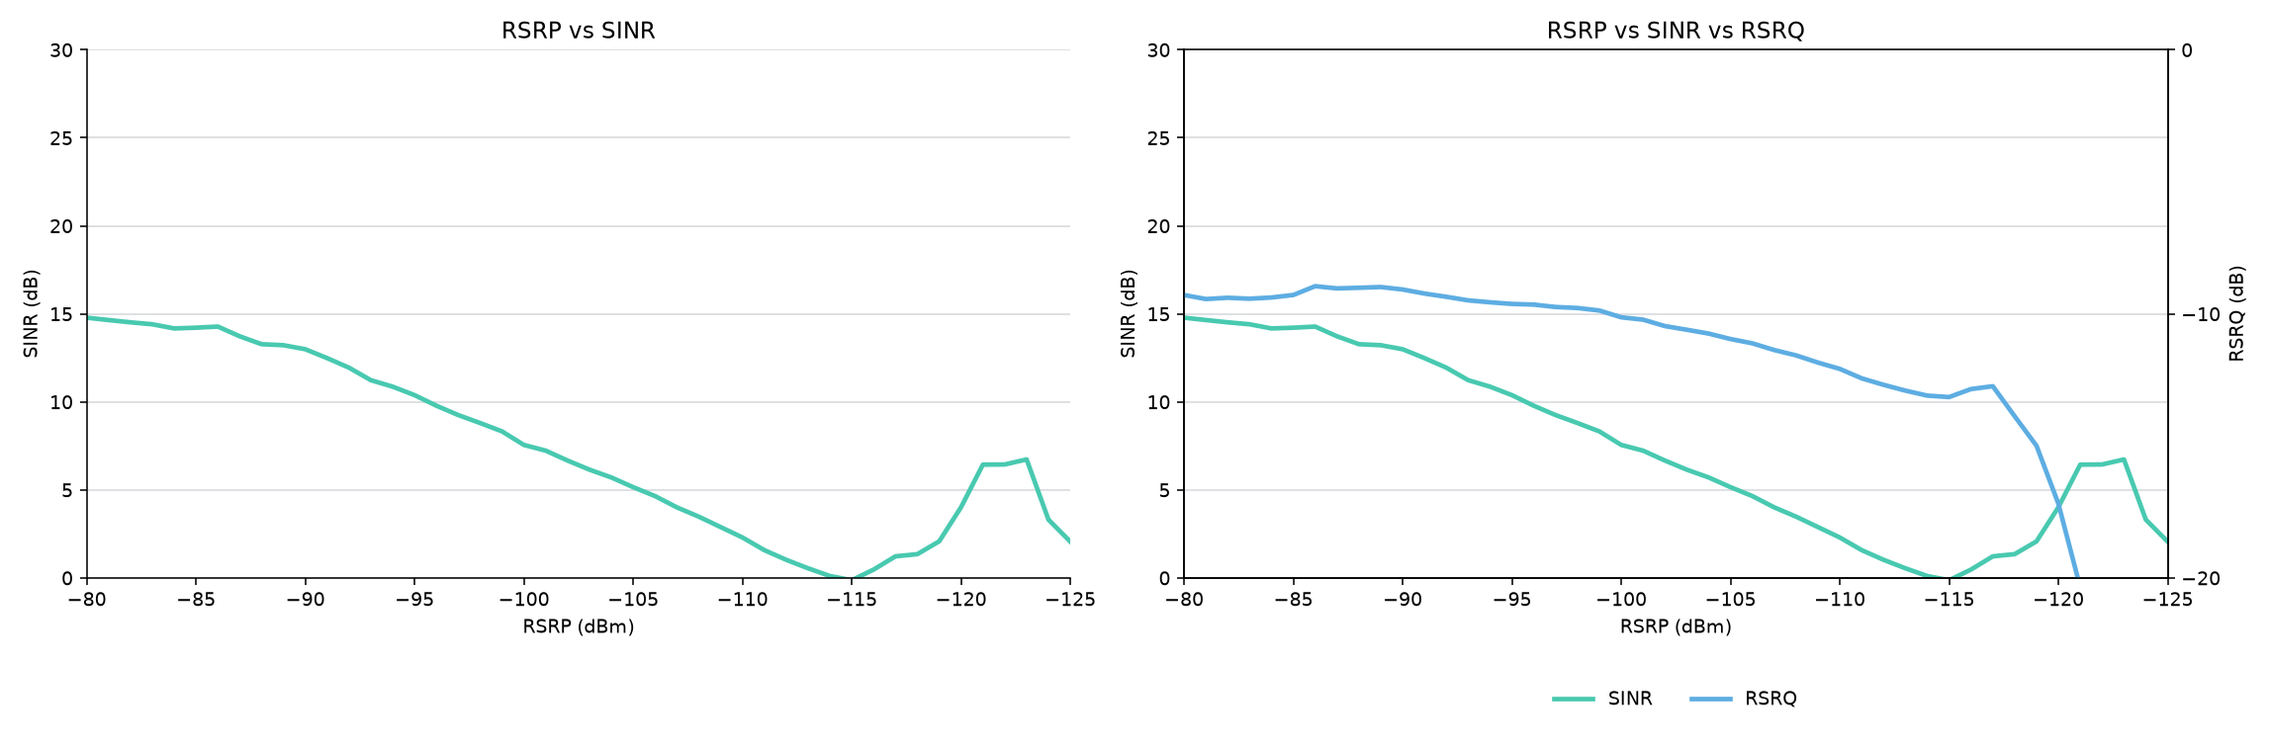
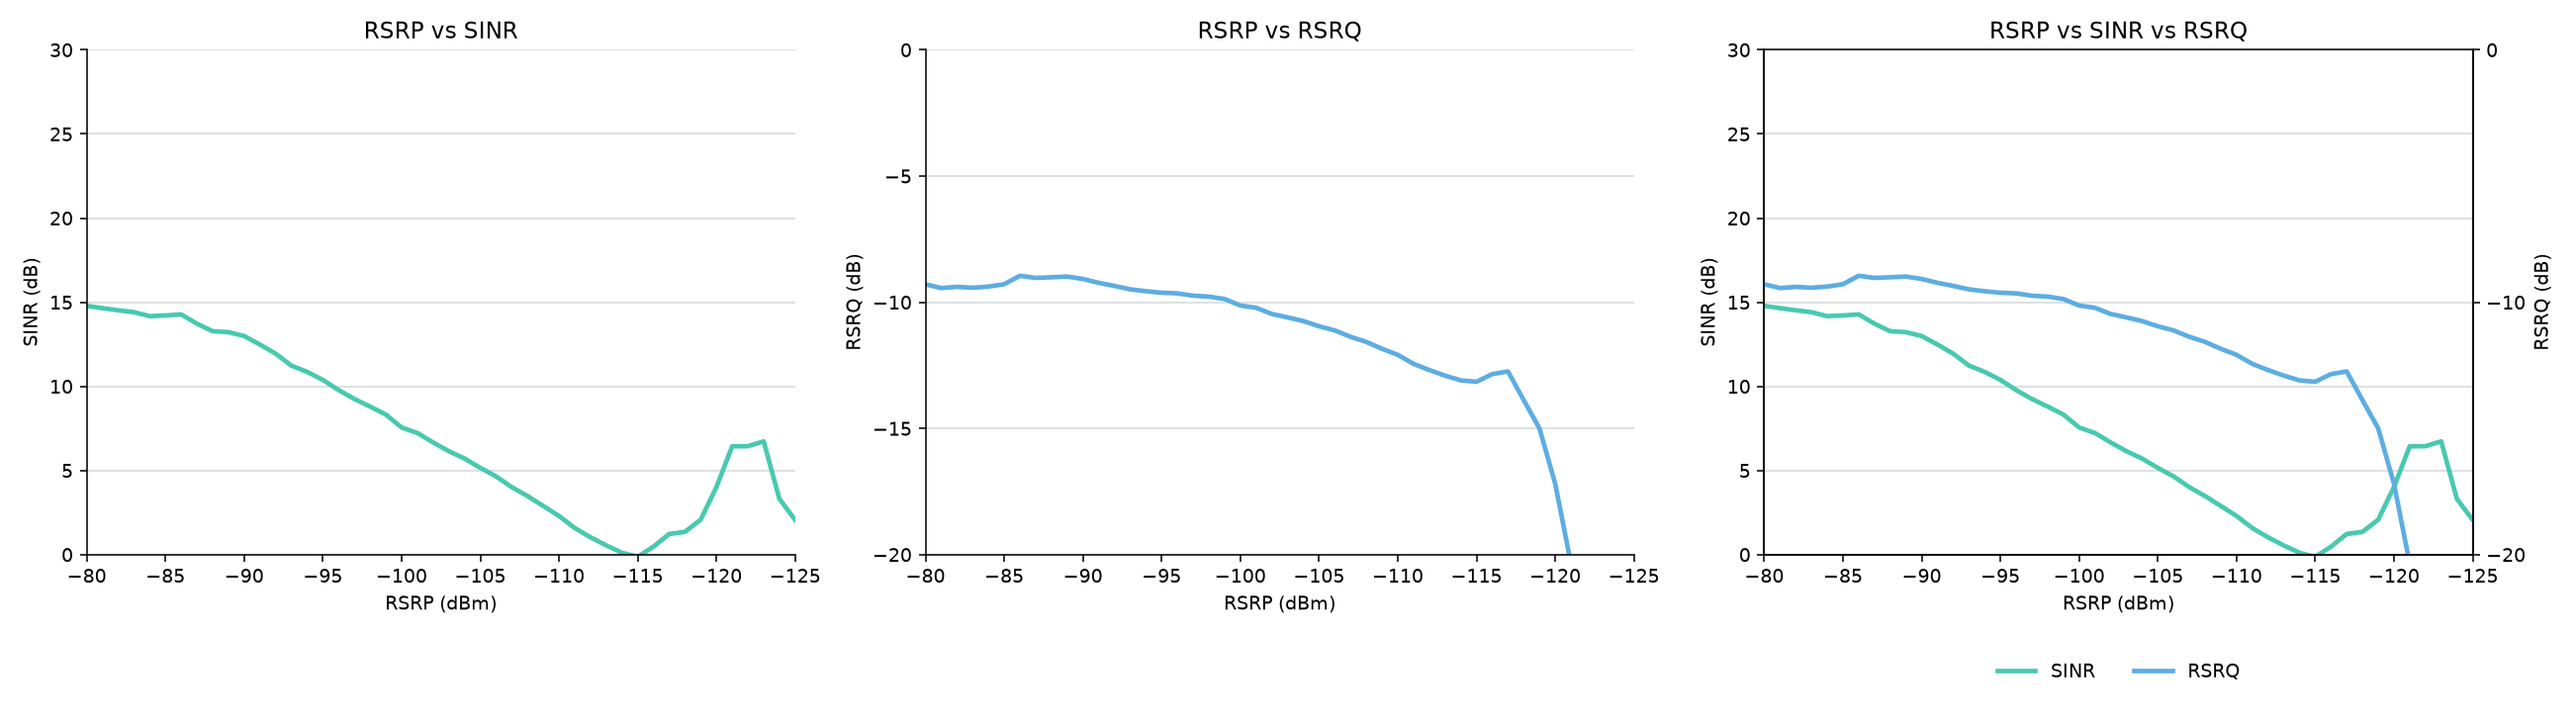
Restore RSRQ and scatter plots; label sheets as IDLE Mode
RSRP vs KPIs again includes RSRP vs RSRQ and the scatter trend plots.
Sheet banners say IDLE Mode and no longer show the file version.

diff --git a/generate_excel_report.py b/generate_excel_report.py
@@ -46,7 +46,7 @@ from merge_and_analyze import (
     rsrp_range_counts,
 )
 
-REPORT_VERSION = "1.7"
+REPORT_VERSION = "1.8"
 REPORT_XLSX = OUTPUT_DIR / "Bogura_DriveTest_Report.xlsx"
 VERSIONED_XLSX = OUTPUT_DIR / f"Bogura_DriveTest_Report_v{REPORT_VERSION}.xlsx"
 
@@ -455,15 +455,15 @@ def write_chart_data(ws: Worksheet, df: pd.DataFrame) -> dict:
 def build_cover(ws: Worksheet, df: pd.DataFrame) -> None:
     banner(
         ws,
-        f"  Bogura LTE Drive-Test Report  (v{REPORT_VERSION})",
-        f"  Version {REPORT_VERSION}  |  Generated {datetime.now().strftime('%Y-%m-%d %H:%M')}  |  Gridlines off  |  Freeze panes off",
+        "  Bogura Drive-Test Report IDLE Mode",
+        f"  Generated {datetime.now().strftime('%Y-%m-%d %H:%M')}  |  IDLE Mode  |  Gridlines off  |  Freeze panes off",
         last_col=10,
     )
     set_widths(ws, {"A": 28, "B": 18, "C": 18, "D": 18, "E": 18, "F": 18, "G": 18, "H": 18, "I": 18, "J": 18})
 
     write_cell(ws, 4, 1, "Dataset", size=14, bold=True)
     info_rows = [
-        ["Report version", f"v{REPORT_VERSION}"],
+        ["Mode", "IDLE"],
         ["Generated", datetime.now().strftime("%Y-%m-%d %H:%M")],
         ["P1 samples", int((df["Source"] == "P1").sum())],
         ["P2 samples", int((df["Source"] == "P2").sum())],
@@ -499,7 +499,7 @@ def build_cover(ws: Worksheet, df: pd.DataFrame) -> None:
     notes = [
         "Cover — dataset size, KPI scorecard, band mix, and overview histograms.",
         "RSRP / RSRQ / SINR — statistics table and coverage map (discrete range legend).",
-        "RSRP vs KPIs — merged P1+P2 as one SINR line, plus a dual-axis SINR/RSRQ chart.",
+        "RSRP vs KPIs — RSRP vs SINR, RSRP vs RSRQ, dual-axis combined chart, and scatter with trend.",
         "Sample Log — evenly spaced subset of the merged samples (full 1.07M rows stay in output/Bogura_merged.csv.gz).",
         "P1 is the split archive (part1–part5). P2 is the standalone archive. This report uses the concatenated final file.",
     ]
@@ -537,7 +537,7 @@ def build_cover(ws: Worksheet, df: pd.DataFrame) -> None:
 
 
 def build_kpi_sheet(ws, df, name, color, unit, map_path: Path | None):
-    banner(ws, f"  {name} report  (v{REPORT_VERSION})", f"  Unit: {unit}  |  Statistics and coverage map  |  Gridlines off", last_col=10)
+    banner(ws, f"  {name} Report IDLE Mode", f"  Unit: {unit}  |  Statistics and coverage map  |  Gridlines off", last_col=10)
     set_widths(ws, {get_column_letter(i): 16 for i in range(1, 11)})
     ws.column_dimensions["A"].width = 28
     ws.column_dimensions["B"].width = 18
@@ -584,10 +584,14 @@ def add_vs_line_chart(ws_data, ws_dest, anchor, title, cat_col, data_min, data_m
         if i >= len(chart.series):
             break
         style_smooth_line(chart.series[i], color)
+    if "RSRQ" in y_title:
+        y_min, y_max, y_major, y_fmt = -20, 0, 5, "0.0"
+    else:
+        y_min, y_max, y_major, y_fmt = 0, 30, 5, "0"
     apply_xy_levels(
         chart, "RSRP (dBm)", y_title,
-        y_min=0, y_max=30, show_all_x_ticks=False, x_tick_skip=5, rotate_x=False,
-        y_major_unit=5, y_num_fmt="0",
+        y_min=y_min, y_max=y_max, show_all_x_ticks=False, x_tick_skip=5, rotate_x=False,
+        y_major_unit=y_major, y_num_fmt=y_fmt,
     )
     reserve_plot_area(chart, left=0.12, top=0.14, width=0.82, height=0.70)
     ws_dest.add_chart(chart, anchor)
@@ -671,7 +675,7 @@ def save_binned_vs_preview(df: pd.DataFrame, path: Path) -> Path:
     pair["rsrp_bin"] = pair["RSRP"].round().astype(int)
     g = pair.groupby("rsrp_bin")[["SINR", "RSRQ"]].mean()
     g = g.loc[(g.index <= -80) & (g.index >= -125)].sort_index(ascending=False)
-    fig, axes = plt.subplots(1, 2, figsize=(16.4, 5.4))
+    fig, axes = plt.subplots(1, 3, figsize=(18.6, 5.2))
 
     ax = axes[0]
     ax.plot(g.index, g["SINR"], color=f"#{VS_SINR_LINE}", lw=2.4)
@@ -687,6 +691,19 @@ def save_binned_vs_preview(df: pd.DataFrame, path: Path) -> Path:
     ax.spines["right"].set_visible(False)
 
     ax = axes[1]
+    ax.plot(g.index, g["RSRQ"], color=f"#{VS_RSRQ_LINE}", lw=2.4)
+    ax.set_title("RSRP vs RSRQ")
+    ax.set_xlabel("RSRP (dBm)")
+    ax.set_ylabel("RSRQ (dB)")
+    ax.set_xlim(-80, -125)
+    ax.set_ylim(-20, 0)
+    ax.set_xticks(range(-80, -126, -5))
+    ax.yaxis.set_major_locator(MultipleLocator(5))
+    ax.grid(True, axis="y", color="#D5D8DC", lw=0.8)
+    ax.spines["top"].set_visible(False)
+    ax.spines["right"].set_visible(False)
+
+    ax = axes[2]
     ax.plot(g.index, g["SINR"], color=f"#{VS_SINR_LINE}", lw=2.4, label="SINR")
     ax.set_ylim(0, 30)
     ax.set_ylabel("SINR (dB)")
@@ -711,24 +728,35 @@ def save_binned_vs_preview(df: pd.DataFrame, path: Path) -> Path:
     return path
 
 
-def build_rsrp_vs_sheet(ws, data_ws, n_rows: int) -> None:
+def build_rsrp_vs_sheet(ws, data_ws, n_rows: int, scatter_sinr: Path, scatter_rsrq: Path) -> None:
     banner(
         ws,
-        "  RSRP vs SINR / RSRQ",
-        f"  Merged P1+P2  |  Version {REPORT_VERSION}  |  Smooth mean lines  |  Gridlines off",
-        last_col=18,
+        "  RSRP vs KPIs IDLE Mode",
+        "  Merged P1+P2  |  Smooth mean lines and scatter with trend  |  Gridlines off",
+        last_col=12,
     )
-    set_widths(ws, {get_column_letter(i): 12 for i in range(1, 19)})
+    set_widths(ws, {get_column_letter(i): 14 for i in range(1, 13)})
     add_vs_line_chart(
         data_ws, ws, "A4", "RSRP vs SINR",
         50, 51, 51, 2, 1 + n_rows, "SINR (dB)",
-        [VS_SINR_LINE], width=16, height=9,
+        [VS_SINR_LINE], width=15, height=8,
     )
-    add_dual_axis_vs_chart(data_ws, ws, "J4", n_rows, width=16, height=9)
+    add_vs_line_chart(
+        data_ws, ws, "I4", "RSRP vs RSRQ",
+        50, 52, 52, 2, 1 + n_rows, "RSRQ (dB)",
+        [VS_RSRQ_LINE], width=15, height=8,
+    )
+    add_dual_axis_vs_chart(data_ws, ws, "A22", n_rows, width=24, height=10)
+    write_cell(ws, 40, 1, "RSRP vs SINR scatter (trend line)", size=14, bold=True)
+    write_cell(ws, 40, 8, "RSRP vs RSRQ scatter (trend line)", size=14, bold=True)
+    if scatter_sinr.exists():
+        add_image(ws, scatter_sinr, "A42", width=520, height=350)
+    if scatter_rsrq.exists():
+        add_image(ws, scatter_rsrq, "H42", width=520, height=350)
 
 
 def build_sample_log(ws: Worksheet, df: pd.DataFrame, n: int = 8000) -> None:
-    banner(ws, "  Sample drive log", "  Evenly spaced subset for inspection  |  Full merged file is CSV  |  No freeze / no gridlines", last_col=10)
+    banner(ws, "  Sample Drive Log IDLE Mode", "  Evenly spaced subset for inspection  |  Full merged file is CSV  |  No freeze / no gridlines", last_col=10)
     sample = downsample(df, max_points=n).copy()
     cols = ["Time", "RSRP", "RSRQ", "SINR", "Longitude", "Latitude", "Cell Id", "DL EARFCN", "Source", "Band"]
     sample = sample[cols]
@@ -911,6 +939,8 @@ def build_report(df: pd.DataFrame, out_path: Path = REPORT_XLSX) -> Path:
     rsrp_map = plot_rsrp_coverage_map(df, PLOTS_DIR / "excel_route_rsrp.png")
     rsrq_map = plot_rsrq_coverage_map(df, PLOTS_DIR / "excel_route_rsrq.png")
     sinr_map = plot_sinr_coverage_map(df, PLOTS_DIR / "excel_route_sinr.png")
+    scatter_sinr = save_rsrp_scatter(df, "SINR", PLOTS_DIR / "excel_scatter_rsrp_sinr.png", "SINR (dB)", "RSRP vs SINR", ylim=(-10, 32))
+    scatter_rsrq = save_rsrp_scatter(df, "RSRQ", PLOTS_DIR / "excel_scatter_rsrp_rsrq.png", "RSRQ (dB)", "RSRP vs RSRQ", ylim=(-24, 0))
     save_binned_vs_preview(df, PLOTS_DIR / "excel_rsrp_vs_sinr_lines.png")
     save_report_preview(df, PLOTS_DIR / "excel_rsrp_rsrq_sinr_histograms.png")
 
@@ -931,16 +961,16 @@ def build_report(df: pd.DataFrame, out_path: Path = REPORT_XLSX) -> Path:
     build_kpi_sheet(rsrp_ws, df, "RSRP", RSRP_COLOR, "dBm", rsrp_map)
     build_kpi_sheet(rsrq_ws, df, "RSRQ", RSRQ_COLOR, "dB", rsrq_map)
     build_kpi_sheet(sinr_ws, df, "SINR", SINR_COLOR, "dB", sinr_map)
-    build_rsrp_vs_sheet(time_ws, data_ws, blocks["vs_n"])
+    build_rsrp_vs_sheet(time_ws, data_ws, blocks["vs_n"], scatter_sinr, scatter_rsrq)
     build_sample_log(sample_ws, df)
 
     for ws in wb.worksheets:
         apply_sheet_view(ws)
 
-    wb.properties.title = f"Bogura LTE Drive-Test Report v{REPORT_VERSION}"
-    wb.properties.subject = f"Version {REPORT_VERSION}"
+    wb.properties.title = "Bogura Drive-Test Report IDLE Mode"
+    wb.properties.subject = "IDLE Mode"
     wb.properties.description = (
-        f"Bogura drive-test report v{REPORT_VERSION}. "
+        "Bogura drive-test report, IDLE Mode. "
         "KPI sheets: statistics and coverage map. Analysis: RSRP vs SINR/RSRQ."
     )
     out_path.parent.mkdir(parents=True, exist_ok=True)

diff --git a/README.md b/README.md
@@ -80,25 +80,25 @@ python merge_and_analyze.py --from-merged
 
 RSRP ranges used in the report (dBm): **≥ -85**, **-85 to -95**, **-95 to -105**, **-105 to -110**, **-110 to -115**, **-115 to -120**, **-120 to -125**, **<-125**.
 
-## Download Excel report (v1.7)
+## Download Excel report (v1.8)
 
-**v1.7 (current):** https://github.com/miles4482/Drive-test-Log-Analysis-and-Plot/raw/cursor/merge-bogura-drive-test-logs-7dfb/output/Bogura_DriveTest_Report_v1.7.xlsx
+**v1.8 (current):** https://github.com/miles4482/Drive-test-Log-Analysis-and-Plot/raw/cursor/merge-bogura-drive-test-logs-7dfb/output/Bogura_DriveTest_Report_v1.8.xlsx
 
 Latest copy: https://github.com/miles4482/Drive-test-Log-Analysis-and-Plot/raw/cursor/merge-bogura-drive-test-logs-7dfb/output/Bogura_DriveTest_Report.xlsx
 
-GitHub file page: https://github.com/miles4482/Drive-test-Log-Analysis-and-Plot/blob/cursor/merge-bogura-drive-test-logs-7dfb/output/Bogura_DriveTest_Report_v1.7.xlsx
+GitHub file page: https://github.com/miles4482/Drive-test-Log-Analysis-and-Plot/blob/cursor/merge-bogura-drive-test-logs-7dfb/output/Bogura_DriveTest_Report_v1.8.xlsx
 
 ## Excel report
 
-`output/Bogura_DriveTest_Report_v1.7.xlsx` (also saved as `output/Bogura_DriveTest_Report.xlsx`)
+`output/Bogura_DriveTest_Report_v1.8.xlsx` (also saved as `output/Bogura_DriveTest_Report.xlsx`)
 
-Cover sheet shows **Version 1.7** and the generated timestamp. Bump `REPORT_VERSION` in `generate_excel_report.py` when the file is updated again.
+Sheet banners use **IDLE Mode** (no version number inside the workbook). The filename still carries the version when the report is updated.
 
 | Sheet | Contents |
 | --- | --- |
-| Cover | Dataset size, KPI scorecard, RSRP ranges, band mix, RSRP/RSRQ/SINR histograms with axis titles and tick levels |
-| RSRP / RSRQ / SINR | Statistics table and coverage map with a discrete range legend (same style on all three KPI sheets) |
-| RSRP vs KPIs | Two charts: smooth RSRP vs SINR, and dual-axis RSRP vs SINR vs RSRQ (merged P1+P2) |
+| Cover | Dataset size, KPI scorecard, RSRP ranges, band mix, RSRP/RSRQ/SINR histograms |
+| RSRP / RSRQ / SINR | Statistics table and coverage map with a discrete range legend |
+| RSRP vs KPIs | RSRP vs SINR, RSRP vs RSRQ, dual-axis combined chart, and scatter plots with trend |
 | Sample Log | Evenly spaced subset of the merged samples |
 
 Every sheet has freeze panes disabled and worksheet gridlines turned off (screen and print). Charts are native Excel objects, not just pictures.
